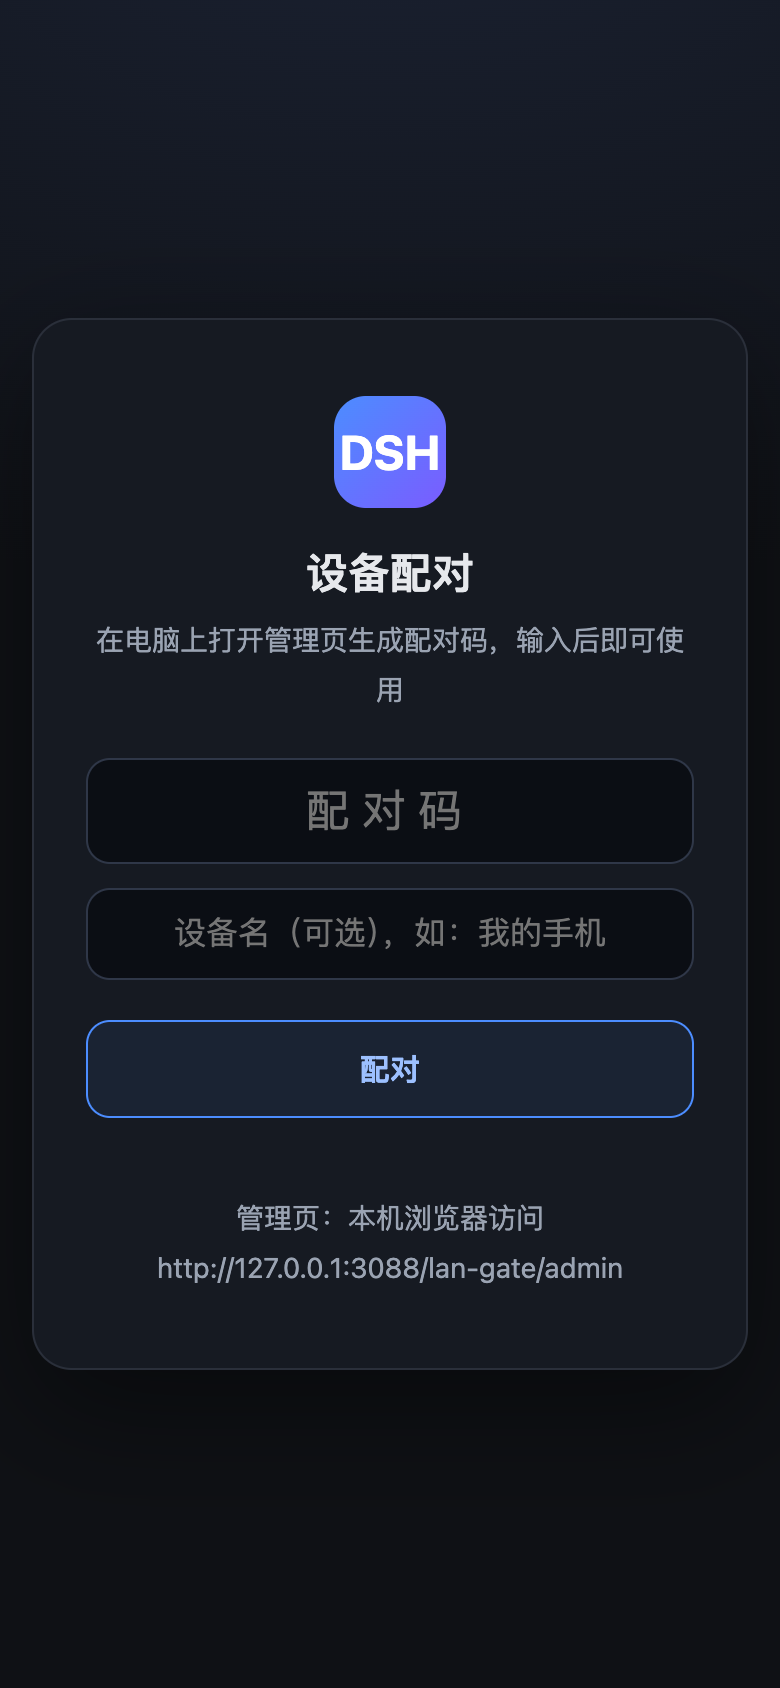
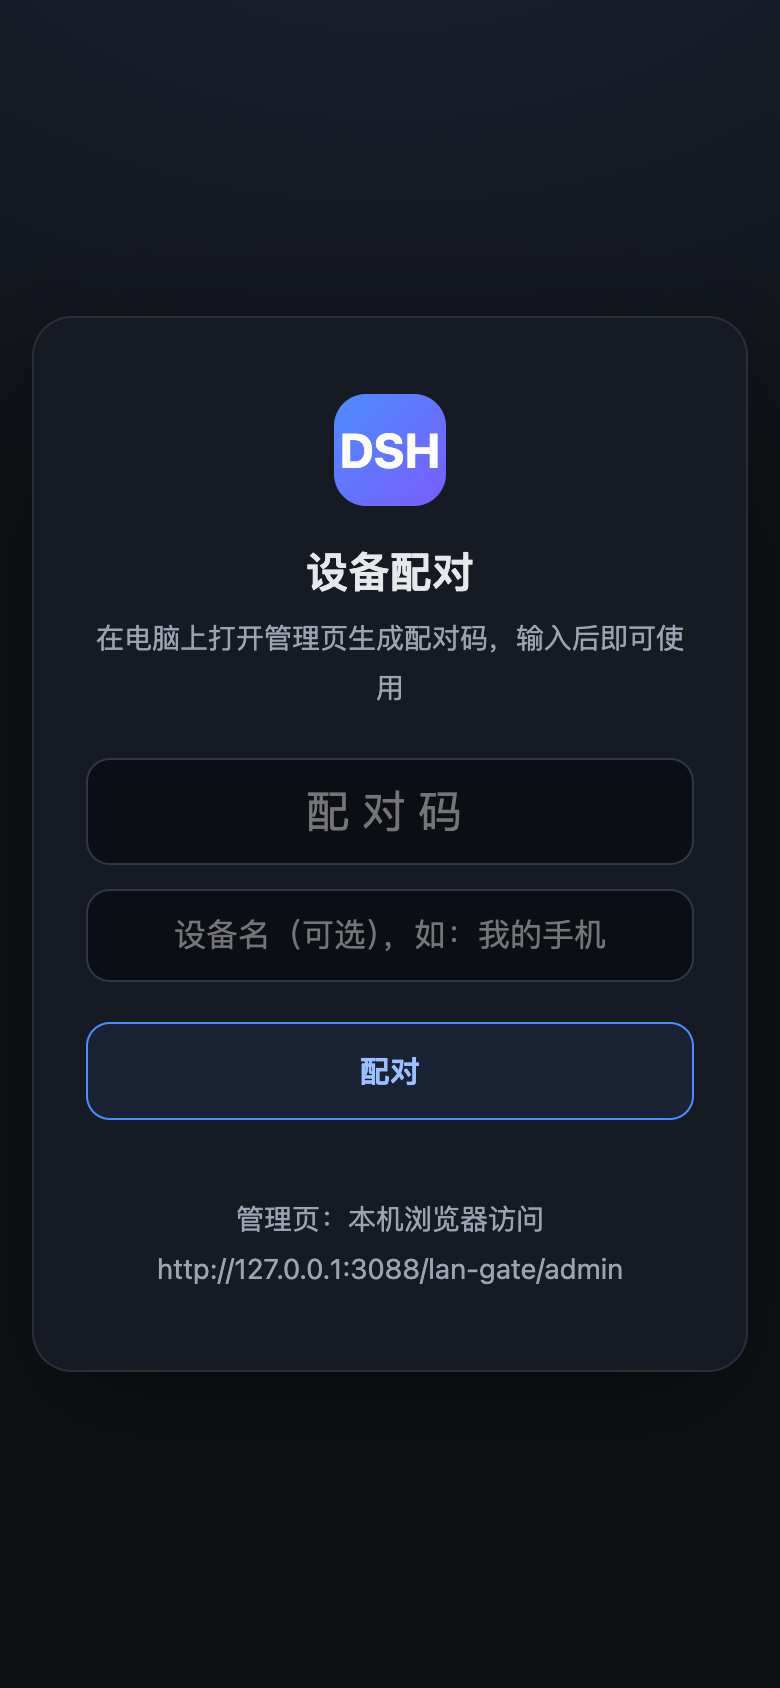
docs: README 重写为单一插件叙事 + 浅色截图重拍
README 以安装与配置为主角：一条命令安装、反代对接三步走、可选配置
一张表；功能压成一屏要点，已知问题各两三句，上游致谢一句话两个链接。
内部演进故事与设计理由全部移进 docs/。

截图 5 张全部用浅色模式重拍（CDP 模拟 prefers-color-scheme: light，
未改动 DSH 的主题设置），构图沿用原样；配对页是网关自绘的固定深色
设计，README 里注明。

docs/ 三份文档的跨包链接、安装命令、手挂 dsh-push.mjs 的段落一并更新。

diff --git a/docs/remote-access.en.md b/docs/remote-access.en.md
@@ -77,7 +77,7 @@ cd the gateway half
 dsh plugin --profile web add ./the gateway half
 ```
 
-Static mount is also available (see [`cordis.patch.yml.example`](cordis.patch.yml.example) — swap in the absolute checkout path) or dynamic-plugin mount (see the header comment in `lan-gate.mjs`), for setups that skip `dsh plugin add`.
+Static mount is also available (see [`cordis.patch.yml.example`](../cordis.patch.yml.example) — swap in the absolute checkout path) or dynamic-plugin mount (see the header comment in `lan-gate.mjs`), for setups that skip `dsh plugin add`.
 
 ### 2. Put your own reverse proxy in front
 
@@ -296,7 +296,7 @@ npm test   # boots a mock upstream, runs the gateway/auth/push suites: proxy+inj
 | `test/push.test.cjs` | Push subscribe/send, VAPID encryption, expired-subscription cleanup |
 | `test/util.cjs` | Shared test harness (boot/request/pair helpers) — not a test file itself |
 
-See [`AGENTS.md`](AGENTS.md) for development conventions.
+See [`AGENTS.md`](../AGENTS.md) for development conventions.
 
 ---
 
@@ -333,4 +333,4 @@ Installing a plugin runs third-party code with your own permissions; being liste
 
 ## License
 
-MIT. The gateway `lib/lan-gate-server.cjs` extends `dsh-mobile-gate`; original MIT copyright/license retained — see [LICENSE](LICENSE).
+MIT. The gateway `lib/lan-gate-server.cjs` extends `dsh-mobile-gate`; original MIT copyright/license retained — see [LICENSE](../LICENSE).

diff --git a/docs/remote-access.md b/docs/remote-access.md
@@ -344,4 +344,4 @@ npm test   # 起 mock 上游，跑 gateway/auth/push 三组测试：反代与注
 
 ## License
 
-MIT。网关 `lib/lan-gate-server.cjs` 基于 `dsh-mobile-gate` 扩展，保留原 MIT 版权与许可，详见 [LICENSE](LICENSE)。
+MIT。网关 `lib/lan-gate-server.cjs` 基于 `dsh-mobile-gate` 扩展，保留原 MIT 版权与许可，详见 [LICENSE](../LICENSE)。
